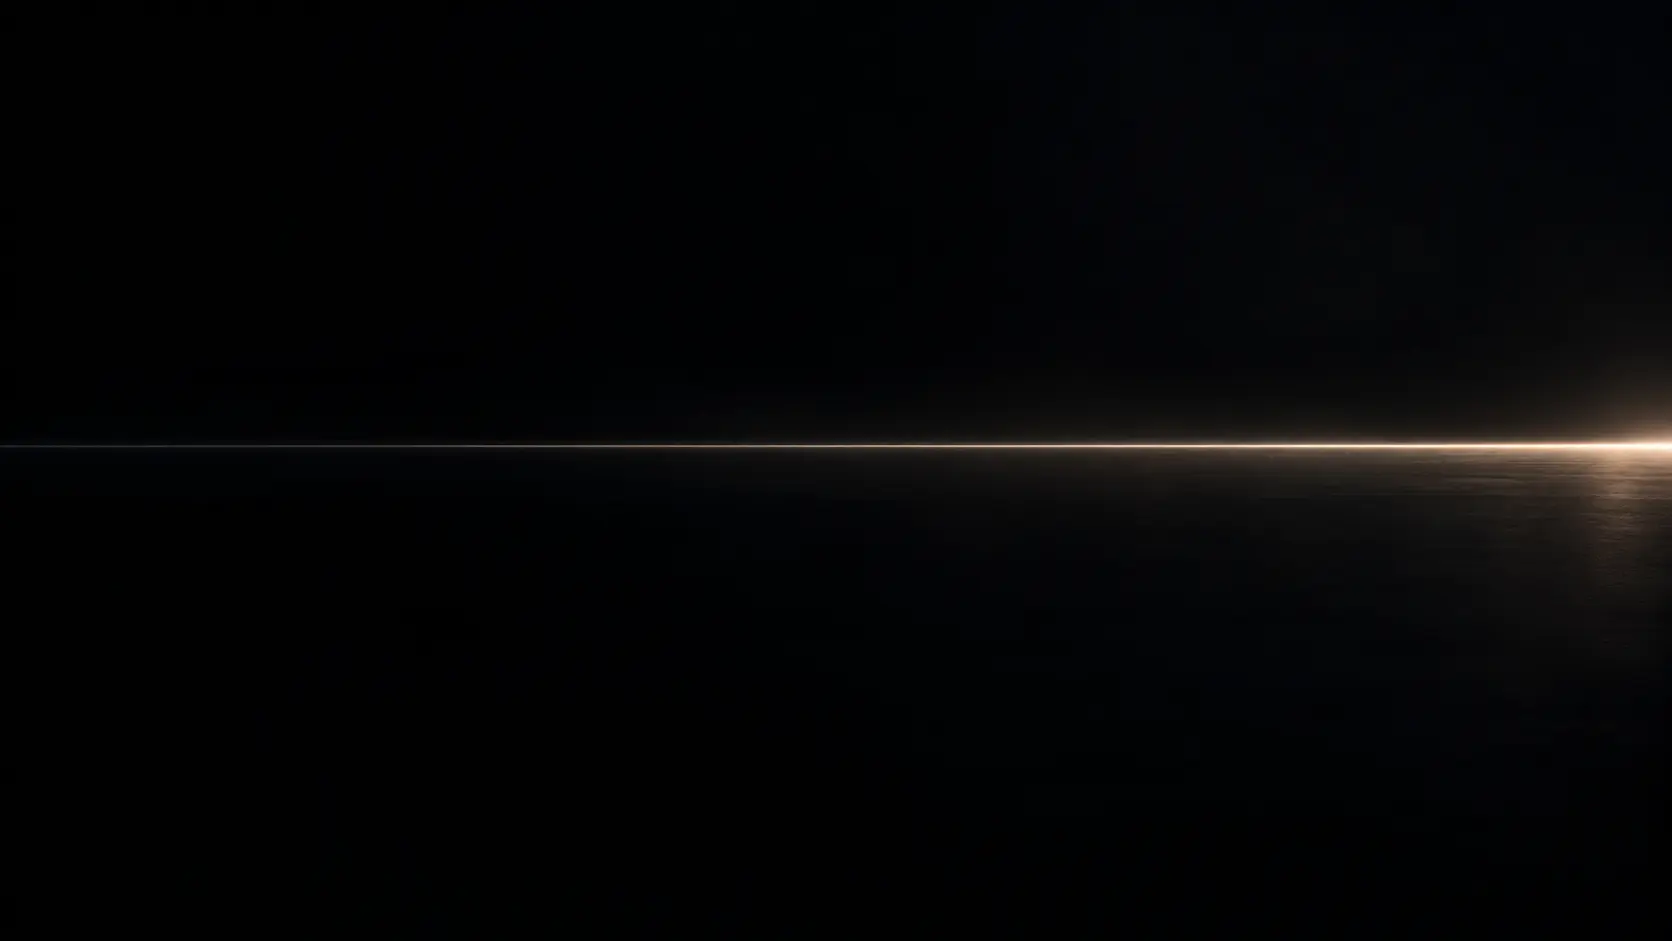
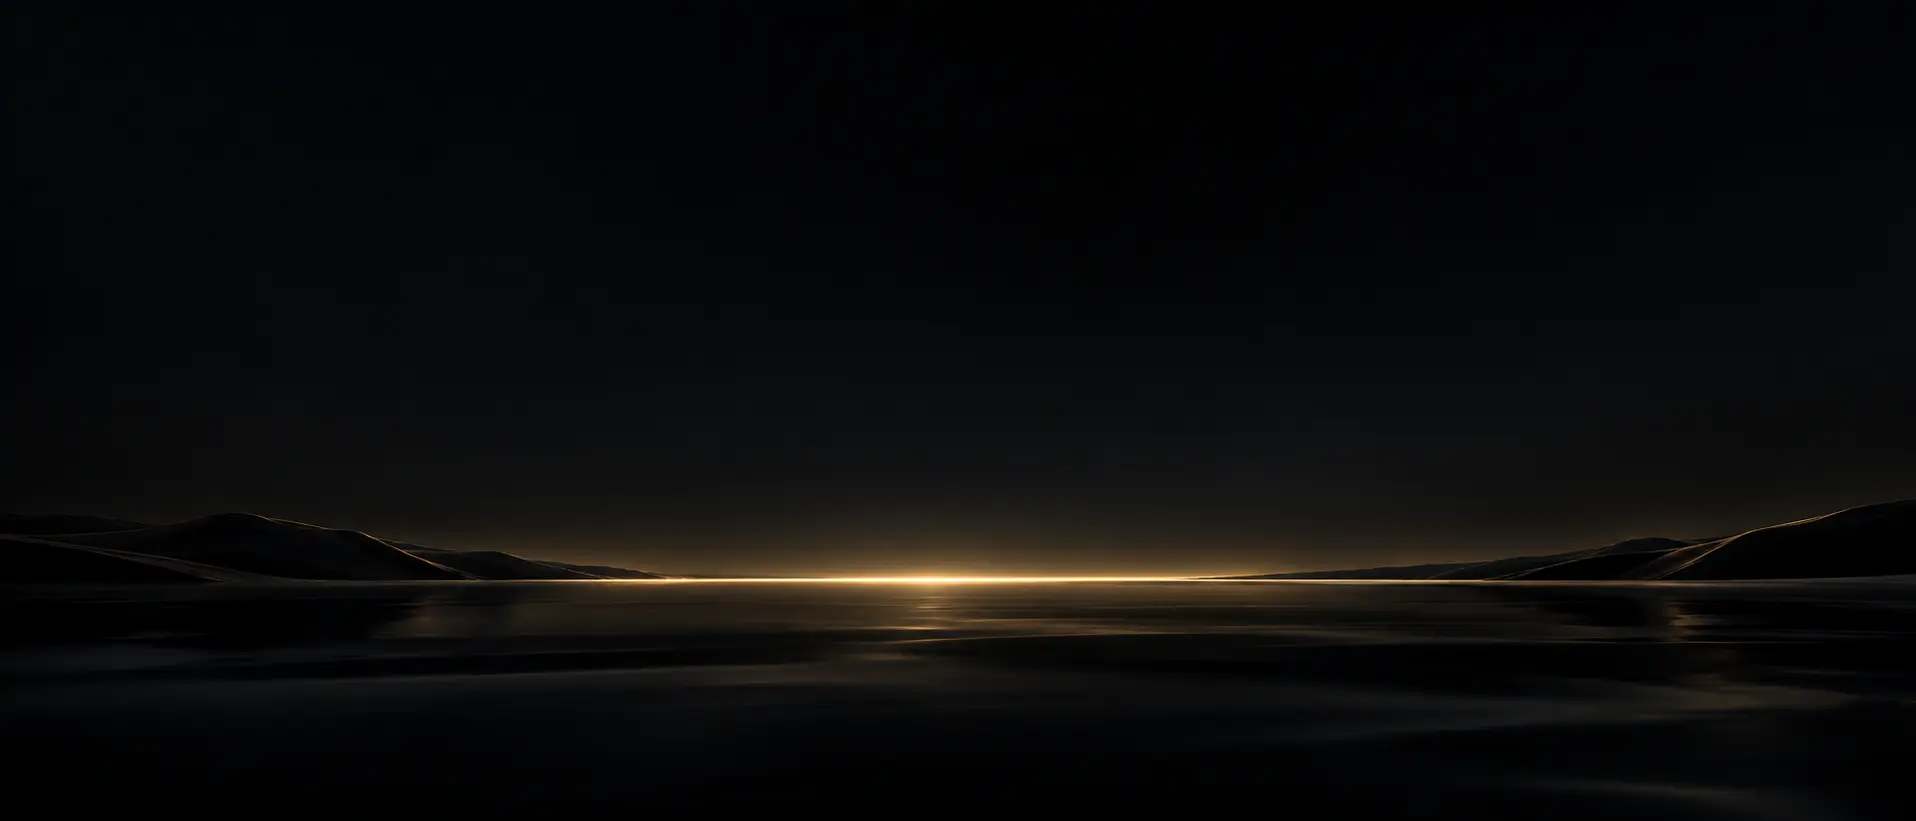
Added products gallery section.

diff --git a/index.html b/index.html
@@ -89,7 +89,7 @@
             <span class="symbol fs-64">check</span>
 
             <p class="para">Your request has been recorded successfully, We'll reply to your provided email or phone
-                within 2 business days.</p>
+                within 3 business days.</p>
 
             <button class="btn fl rounded-16 ph-24 pv-16 uppercase w-full">I understand</button>
         </div>
@@ -118,9 +118,9 @@
                 </div>
             </div>
 
-            <div class="header_lower row h-en gap-12 p-12">
+            <div class="header_lower res-row h-en gap-12 p-12">
                 <a href="#philosophy" class="link uppercase">philosophy</a>
-                <a href="#coachbuild" class="link uppercase">Build with us</a>
+                <a href="#gallery" class="link uppercase">product gallery</a>
             </div>
         </section>
     </header>
@@ -339,8 +339,56 @@
                 </div>
             </section>
         </section>
+
+        <section class="gallery inverted-element" id="gallery">
+            <section class="section p-48 column gap-32 center text-center min-h-screen">
+                <div class="head column gap-4 center">
+                    <span class="mini uppercase text-muted">gallery</span>
+                    <h1 class="h1 fs-64">Product shots</h1>
+                    <p class="para">Simple photos become high-converting ad with ECHO.</p>
+                </div>
+
+                <p class="para text-both">We've picked some objects in from our developer's desk and created an ad with that. It
+                    may look simple, but now-a-days, simple images convert better than "perfect AI images".</p>
+
+                <div class="body grid cols-4 gap-4">
+                    <div class="image-container container rounded-4">
+                        <img src="assets/shots/1.webp" alt="SHOT 1" class="img">
+                    </div>
+
+                    <div class="image-container container rounded-4">
+                        <img src="assets/shots/2.webp" alt="SHOT 2" class="img">
+                    </div>
+
+                    <div class="image-container container rounded-4">
+                        <img src="assets/shots/3.webp" alt="SHOT 3" class="img">
+                    </div>
+
+                    <div class="image-container container rounded-4">
+                        <img src="assets/shots/4.webp" alt="SHOT 4" class="img">
+                    </div>
+
+                    <div class="image-container container rounded-4">
+                        <img src="assets/shots/5.webp" alt="SHOT 5" class="img">
+                    </div>
+
+                    <div class="image-container container rounded-4">
+                        <img src="assets/shots/6.webp" alt="SHOT 6" class="img">
+                    </div>
+
+                    <div class="image-container container rounded-4">
+                        <img src="assets/shots/7.webp" alt="SHOT 7" class="img">
+                    </div>
+
+                    <div class="image-container container rounded-4">
+                        <img src="assets/shots/8.webp" alt="SHOT 8" class="img">
+                    </div>
+                </div>
+            </section>
+        </section>
     </main>
 
+    <hr class="divider">
     <footer class="footer inverted-element">
         <section class="section p-20 column gap-12">
             <div class="head row gap-12">

diff --git a/styles/style.css b/styles/style.css
@@ -1,11 +1,37 @@
 /* ================================================== */
+/* ! EXPERIMENTAL */
+/* ================================================== */
+
+@keyframes fadeIn {
+    from { transform: scale(0.6); }
+    to { transform: scale(1); }
+}
+
+.btn {
+    animation: fadeIn linear;
+    animation-timeline: view();
+    animation-range: entry 0% cover 30%;
+}
+
+/* ================================================== */
+/* HEADER */
+/* ================================================== */
+
+.header {
+    background-color: var(--color-surface-main);
+    backdrop-filter: blur(4px);
+}
+
+.header .link:hover { color: #808080; }
+
+/* ================================================== */
 /* HERO */
 /* ================================================== */
 
 .hero {
     background-image: url('/assets/hero.webp');
     background-size: cover;
-    background-position: right;
+    background-position: center;
     margin-top: -117px;
 }
 
@@ -44,3 +70,27 @@
 .apply .includes .body .para:nth-child(1) .text { color: var(--color-state-green); }
 .apply .includes .body .para:nth-child(2) .text { color: var(--color-state-yellow); }
 .apply .includes .body .para:nth-child(3) .text { color: var(--color-state-red); }
+
+/* ================================================== */
+/* GALLERY */
+/* ================================================== */
+
+.gallery .body .image-container { position: relative; }
+.gallery .body .image-container .img { transition: transform 0.3s ease-out; }
+
+.gallery .body .image-container::after {
+    content: '';
+    position: absolute;
+    inset: 0;
+    pointer-events: none;
+    background: radial-gradient(circle, rgba(0,0,0,0) 40%, rgba(0,0,0,0.8) 80%);
+    opacity: 0;
+    transition: opacity 0.3s;
+}
+
+.gallery .body .image-container:hover::after { opacity: 1; }
+.gallery .body .image-container:hover .img { transform: scale(1.1); }
+
+@media (max-width: 768px) {
+    .gallery .body { grid-template-columns: repeat(2, 1fr); }
+}

diff --git a/styles/utility.css b/styles/utility.css
@@ -125,8 +125,8 @@ html {
     height: 100%;
     width: 100%;
     margin: 0 auto;
-    /* transform: translateY(24px);
-    opacity: 0; */
+    transform: translateY(24px);
+    opacity: 0;
     transition: transform 0.6s ease-out, opacity 0.3s;
 }
 
